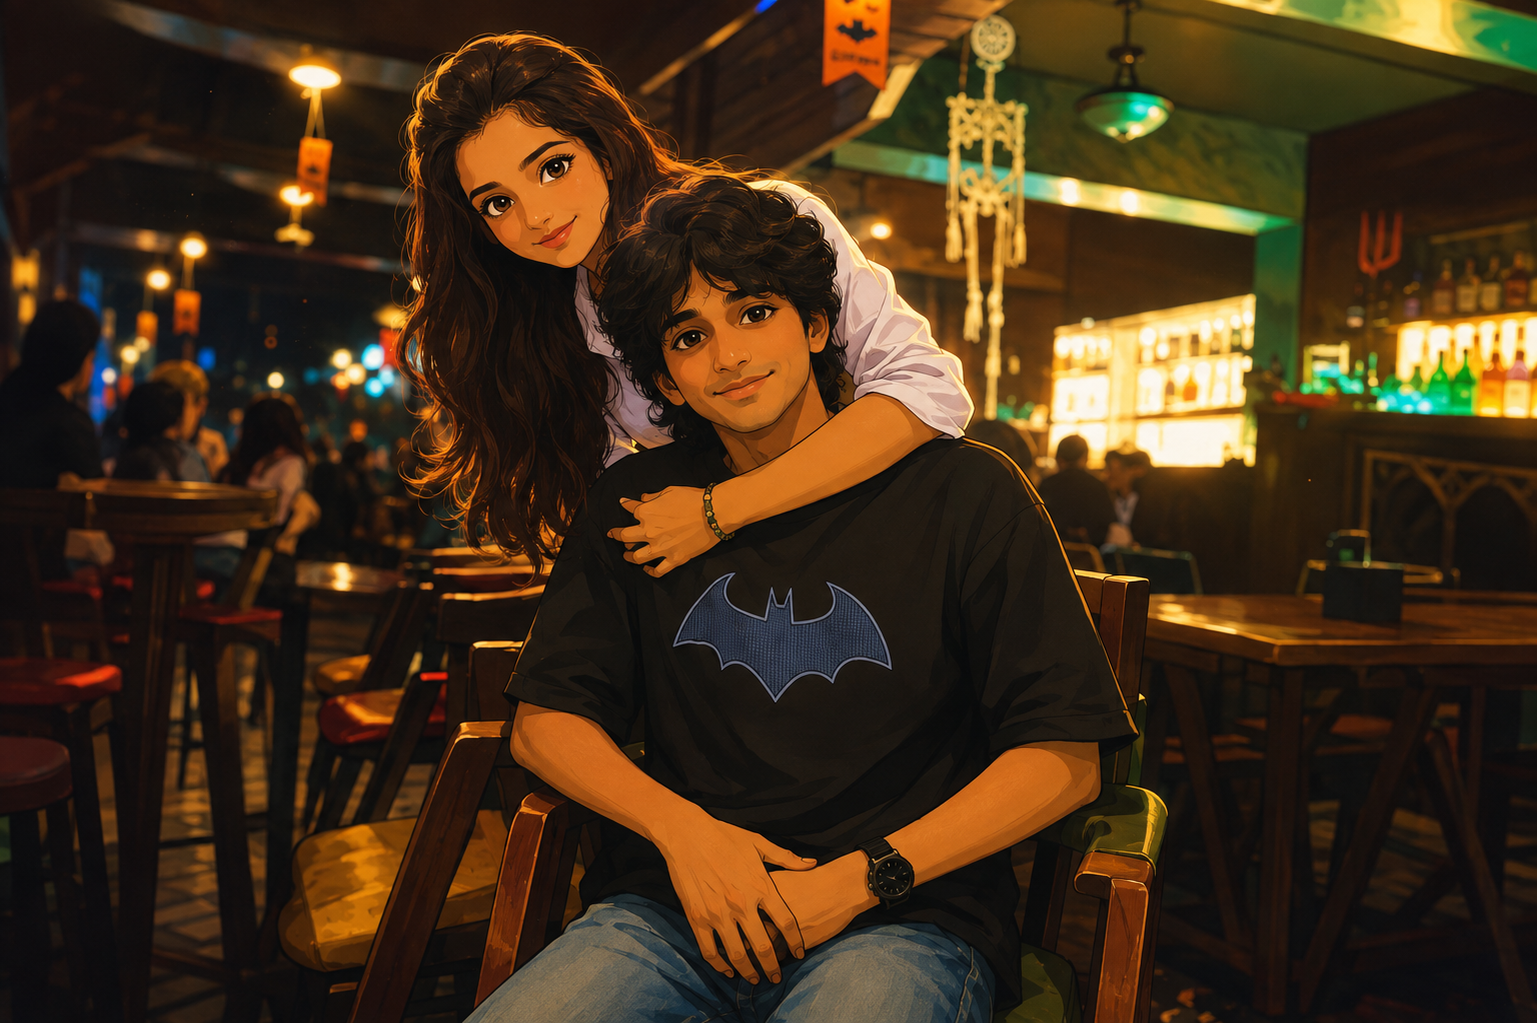
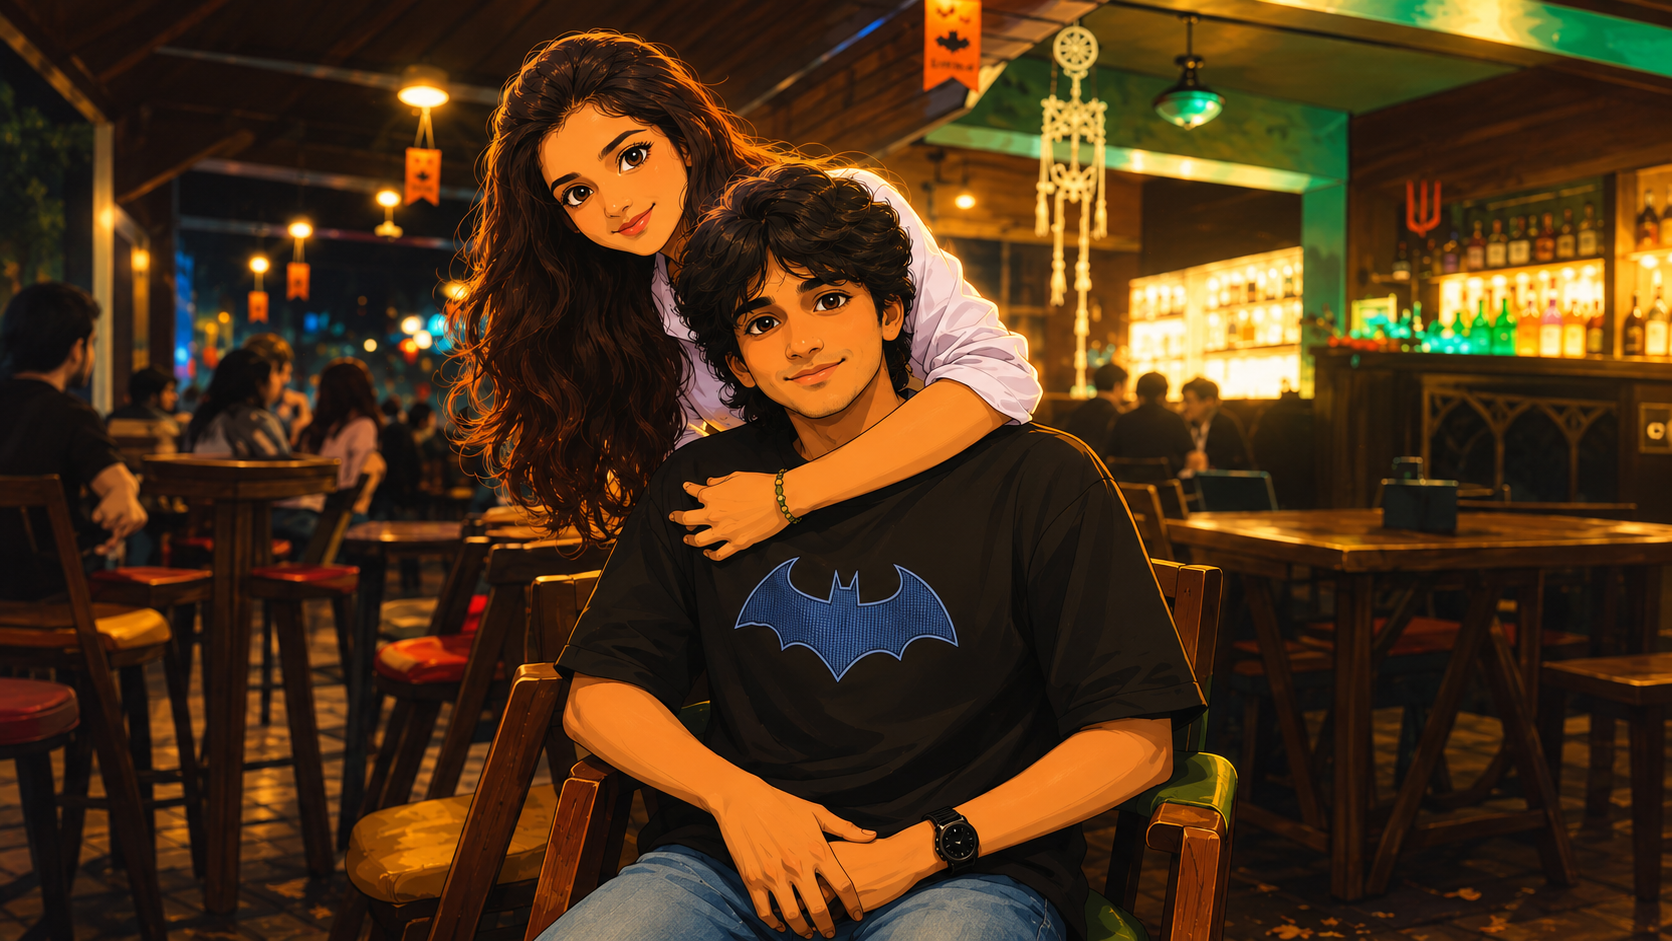
Sixth Commit

diff --git a/src/css/Memories.css b/src/css/Memories.css
@@ -165,15 +165,13 @@
 ========================= */
 
 .memory-photo-container {
-
     width: min(500px, 65vw);
+    aspect-ratio: 16 / 9;
 
-    height: 52vh;
+    height: auto;
 
     display: flex;
-
     justify-content: center;
-
     align-items: center;
 
     padding: 8px;
@@ -193,19 +191,13 @@
     overflow: hidden;
 }
 
-
 .memory-photo {
-
     width: 100%;
-
     height: 100%;
-
     object-fit: cover;
-
+    object-position: center;
     border-radius: 15px;
-
     display: block;
-
     animation: photoAppear 0.5s ease;
 }
 
@@ -506,7 +498,6 @@
     }
 }
 
-
 /* =========================
    TABLET
 ========================= */
@@ -514,83 +505,65 @@
 @media (max-width: 768px) {
 
     .memories-page {
-
         padding: 12px;
     }
 
-
     .memories-container {
-
         width: 96vw;
-
         height: 96vh;
-
         padding: 20px 15px;
-
         border-radius: 25px;
     }
 
-
     .memories-header {
-
         gap: 10px;
     }
 
-
     .memories-header > span {
-
         font-size: 20px;
     }
 
-
     .memories-header p {
-
         font-size: 0.65rem;
     }
 
-
     .memories-header h1 {
-
         font-size: 1.8rem;
     }
 
-
     .memory-photo-wrapper {
-
         gap: 8px;
     }
 
-
     .memory-photo-container {
-
         width: 72vw;
-
-        height: 52vh;
-
-        max-height: 470px;
+        aspect-ratio: 16 / 9;
+        height: auto;
+        max-height: none;
+        padding: 6px;
+        border-radius: 18px;
     }
 
+    .memory-photo {
+        width: 100%;
+        height: 100%;
+        object-fit: cover;
+        object-position: center;
+        border-radius: 12px;
+    }
 
     .arrow {
-
         width: 40px;
-
         height: 40px;
-
         font-size: 30px;
     }
 
-
     .memory-info h2 {
-
         font-size: 1.15rem;
     }
 
-
     .memory-info p {
-
         font-size: 0.75rem;
-
         max-width: 90%;
     }
 }
@@ -603,103 +576,73 @@
 @media (max-width: 480px) {
 
     .memories-page {
-
         padding: 8px;
     }
 
-
     .memories-container {
-
         width: 96vw;
-
         height: 96vh;
-
         padding: 18px 12px;
-
         border-radius: 22px;
     }
 
-
     .memories-header > span {
-
         font-size: 16px;
     }
 
-
     .memories-header p {
-
         font-size: 0.58rem;
     }
 
-
     .memories-header h1 {
-
         font-size: 1.45rem;
     }
 
-
     .memory-photo-wrapper {
-
         gap: 5px;
     }
 
-
     .memory-photo-container {
-
-        width: 76vw;
-
-        height: 50vh;
-
-        max-height: 420px;
-
+        width: calc(100% - 75px);
+        aspect-ratio: 16 / 9;
+        height: auto;
+        max-height: none;
         padding: 5px;
+        border-radius: 17px;
     }
 
-
     .memory-photo {
-
+        width: 100%;
+        height: 100%;
+        object-fit: cover;
+        object-position: center;
         border-radius: 12px;
     }
 
-
     .arrow {
-
         width: 34px;
-
         height: 34px;
-
         font-size: 25px;
     }
 
-
     .memory-number {
-
         font-size: 0.7rem;
     }
 
-
     .memory-info h2 {
-
         font-size: 1rem;
     }
 
-
     .memory-info p {
-
         font-size: 0.68rem;
-
         line-height: 1.4;
     }
 
-
     .memory-footer {
-
         font-size: 0.6rem;
     }
 
-
     .memory-heart {
-
         display: none;
     }
 }
@@ -712,35 +655,37 @@
 @media (max-width: 360px) {
 
     .memories-container {
-
         padding: 14px 10px;
     }
 
-
     .memories-header h1 {
-
         font-size: 1.25rem;
     }
 
-
     .memory-photo-container {
-
-        height: 47vh;
+        width: calc(100% - 65px);
+        aspect-ratio: 16 / 9;
+        height: auto;
+        max-height: none;
+        padding: 4px;
+        border-radius: 15px;
     }
 
+    .memory-photo {
+        width: 100%;
+        height: 100%;
+        object-fit: cover;
+        object-position: center;
+        border-radius: 10px;
+    }
 
     .arrow {
-
         width: 30px;
-
         height: 30px;
-
         font-size: 22px;
     }
 
-
     .memory-info p {
-
         font-size: 0.62rem;
     }
 }

diff --git a/src/pages/Memories.jsx b/src/pages/Memories.jsx
@@ -251,21 +251,6 @@ function Memories() {
 
                 </div>
 
-
-                {/* =========================
-                    Last Memory → Letter
-                ========================= */}
-
-                {isLastMemory && (
-
-                    <div className="last-memory-section">
-
-                        <div className="last-memory-line"></div>
-                    </div>
-
-                )}
-
-
             </div>
 
         </div>
